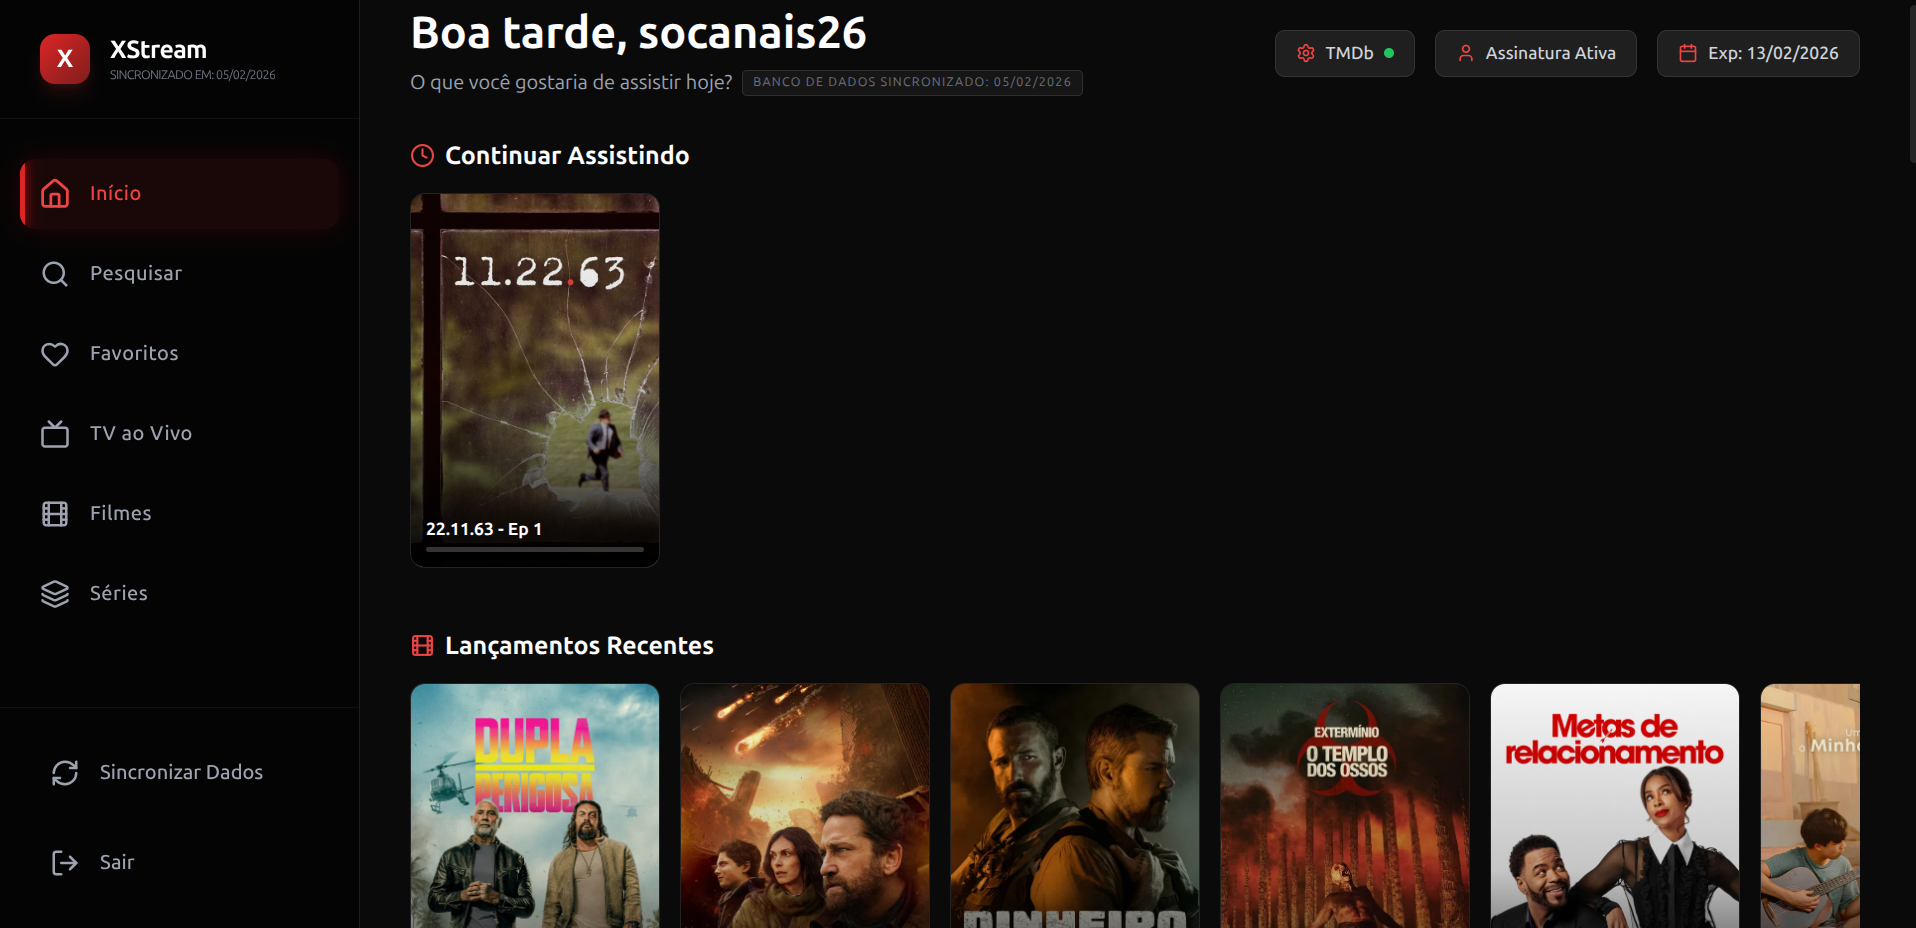
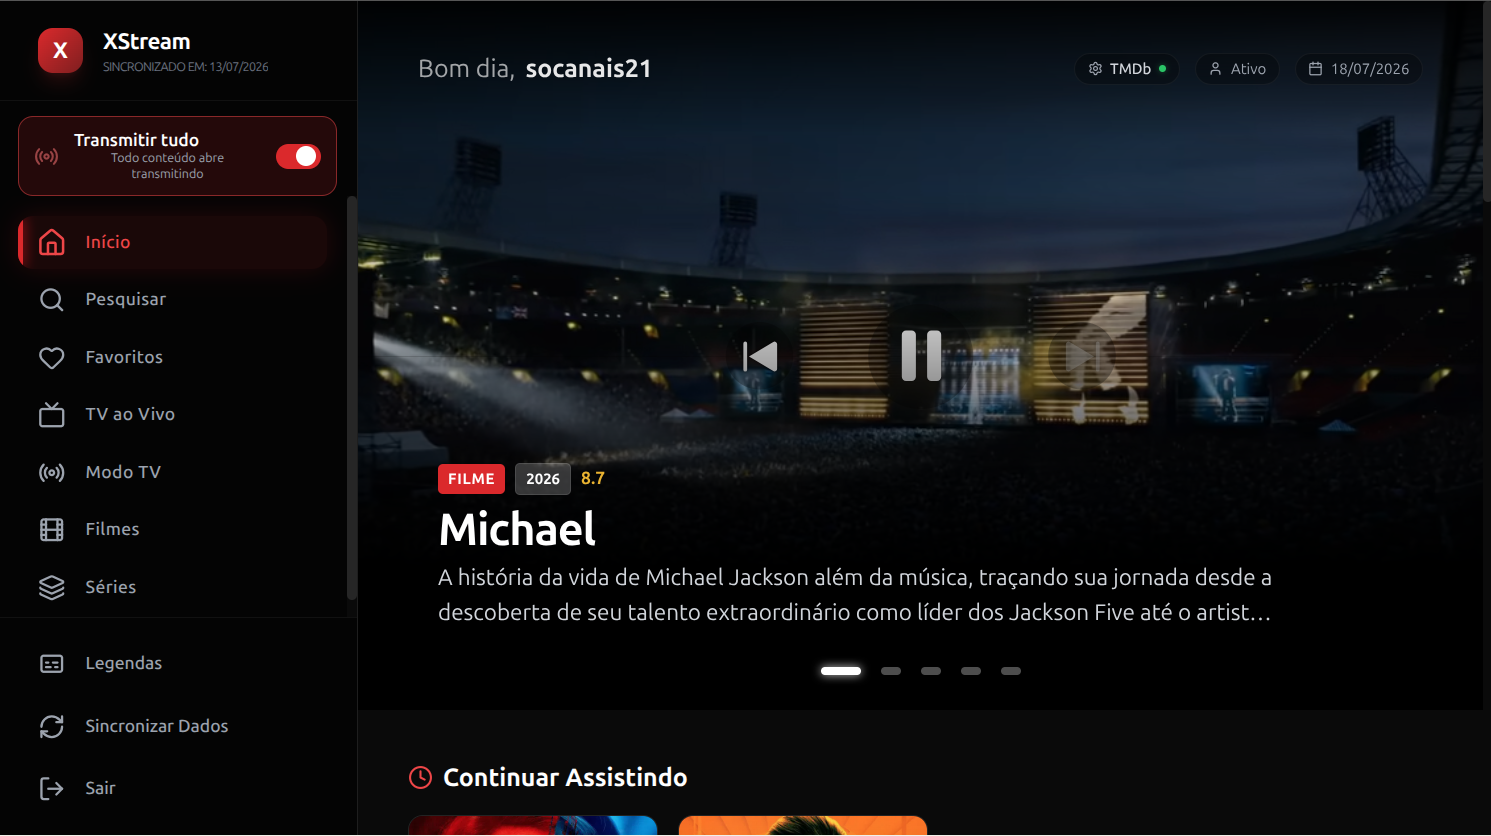
docs: documentar Modo TV (compartilhamento de conexão) e atualizar screenshot

diff --git a/README.md b/README.md
@@ -34,11 +34,25 @@ This project aims to solve these issues by providing a centralized, modern, and 
 *   Playback of live channels, movies, and series (VOD).
 *   TMDB integration for rich metadata (posters, overviews, ratings) and daily suggestions.
 *   "Continue Watching" functionality to resume content from where you left off.
+*   **TV Mode (connection sharing):** watch exactly what another device is broadcasting — like a live channel — sharing a **single upstream connection** (see the dedicated section below).
+*   **Player quality-of-life:** on-screen title (movie / series + episode / channel) that auto-hides with the controls, and an automatic "Next episode" prompt with countdown near the end of an episode.
 *   **Complete Subtitle Support:**
     *   Integration with OpenSubtitles API.
     *   **Persistence:** Automatically remembers and loads selected subtitles for each movie or episode.
     *   **Customization:** Adjust subtitle font size directly in the player (shortcuts `[` and `]`).
     *   **Accurate Matching:** Uses TMDb IDs to find the perfect subtitle for your content.
+
+## 📡 TV Mode (Connection Sharing)
+
+IPTV accounts have a limit of simultaneous connections. **TV Mode** lets several devices watch the same content while consuming **only one** upstream connection to your provider — the app relays a single stream to everyone, like a live TV channel.
+
+*   **Broadcast:** while watching, enable **Transmitir** (broadcast) in the player, or turn on the global **"Transmitir tudo"** toggle in the sidebar so every content you open starts broadcasting automatically.
+*   **Join:** the **Modo TV** menu lists which devices are broadcasting and what they are watching. Click one to join its stream — **without opening a new connection**. When you hit the account's connection limit, a modal also offers the active broadcasts to join.
+*   **Works for live channels, movies, and series.** Live channels are relayed directly; movies and episodes (VOD) are turned into a live-style stream with **ffmpeg**, so joiners tune into the current position (channel-style, no independent seek).
+*   **Time sync:** when the broadcaster and viewers drift apart, a **"Sincronizar"** button appears. A viewer jumps to the broadcaster's position; the broadcaster can pull everyone to its own time. The button only shows up when players are actually out of sync.
+*   **Auto device naming:** devices are labeled from their user agent (e.g. "Smart TV (LG)", "iPhone", "PC (Windows)") and can be renamed in the Modo TV screen.
+
+> **Requirements:** sharing movies/series (VOD) needs **ffmpeg** installed on the server. The provided Docker image already includes it. Shared state lives in the `data/` folder (`live-sessions.json`, `live-sync.json`), so it works even across multiple app instances that share that folder.
 
 ## 🚀 How to Install and Run
 
@@ -46,6 +60,7 @@ This project aims to solve these issues by providing a centralized, modern, and 
 
 *   Node.js (v18 or higher)
 *   npm or yarn
+*   **ffmpeg** (optional — only required to broadcast movies/series in TV Mode; already bundled in the Docker image)
 
 ### Local Installation
 
@@ -126,6 +141,7 @@ sudo chown -R 1001:1001 data/
 *   [React](https://reactjs.org/)
 *   [Tailwind CSS](https://tailwindcss.com/)
 *   [HLS.js](https://github.com/video-dev/hls.js/)
+*   [ffmpeg](https://ffmpeg.org/) (VOD connection sharing in TV Mode)
 *   [Framer Motion](https://www.framer.com/motion/)
 *   [Lucide React](https://lucide.dev/)
 
